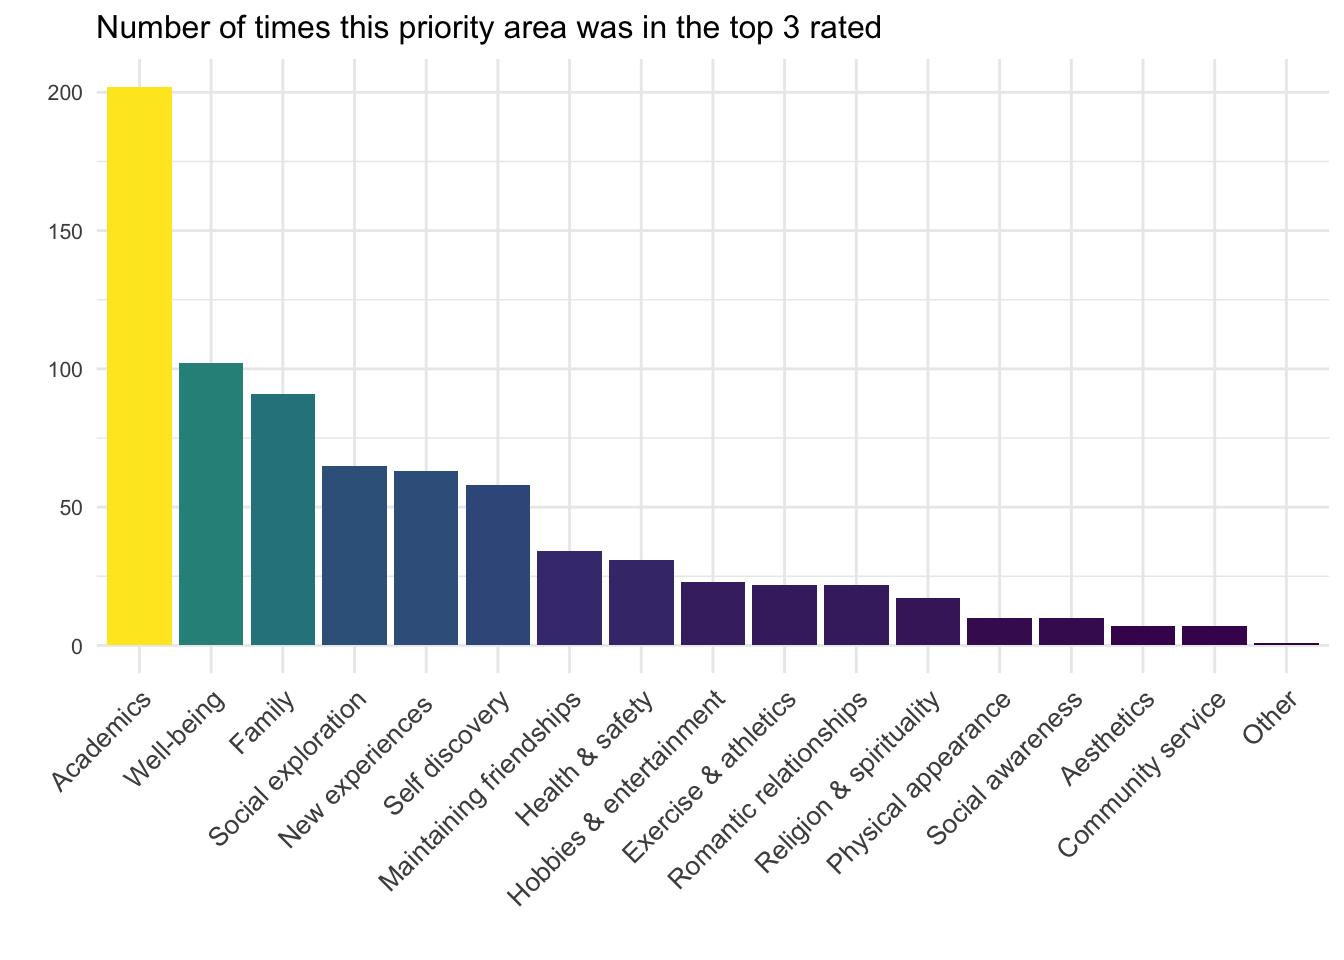
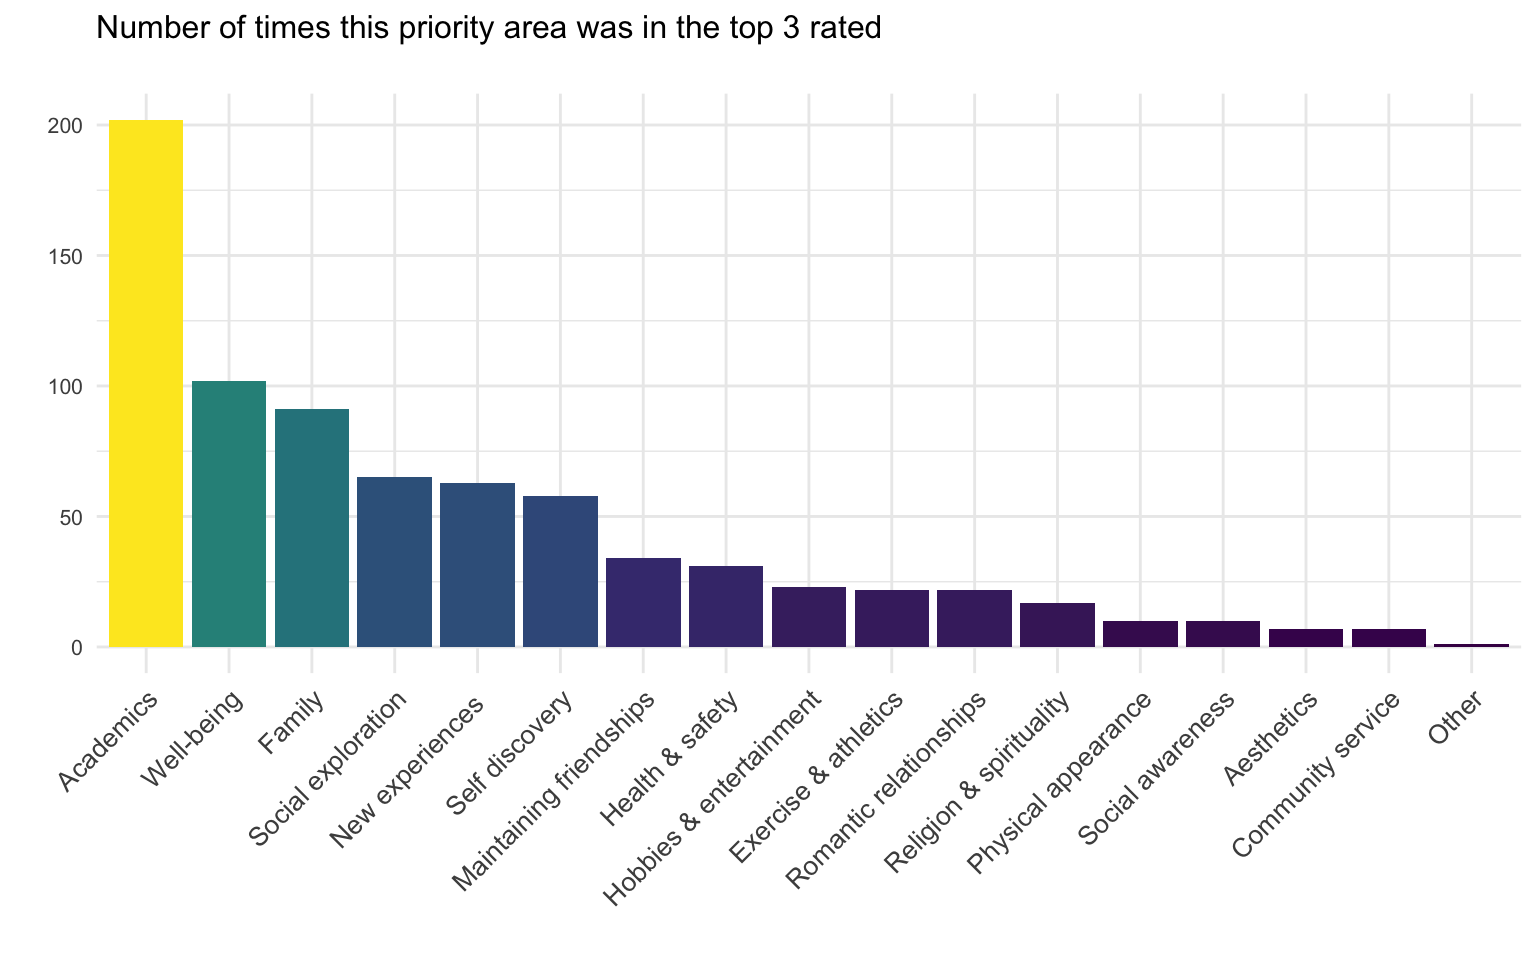
updated hopelab code

diff --git a/data-vis/hopelab/index.html b/data-vis/hopelab/index.html
@@ -17,7 +17,8 @@
       
     
   
-  <meta name="description" content="load libraries if (!require(tidyverse)) { install.packages(&#39;tidyverse&#39;) } if (!require(devtools)) { install.packages(&#39;devtools&#39;) } if (!require(scorequaltrics)) { devtools::install_github(&#39;jflournoy/qualtrics&#39;) } if (!require(ggcorrplot)) { install.packages(&#39;ggcorrplot&#39;) }  questionnaires to score  SWLS = Satisfaction with Life Scale CESD-10 = CES-Depression, 10 items PANAS = Positive and Negative Affect Schedule PSS = Perceived Stress Scale ULS-8 = UCLA Loneliness Scale, 8 items Priorities   define variables and paths  cred_file_location = path to your Qualtrics credential file.">
+  <meta name="description" content="Well-being descriptives for Hopelab.
+load libraries if (!require(tidyverse)) { install.packages(&#39;tidyverse&#39;) } if (!require(devtools)) { install.packages(&#39;devtools&#39;) } if (!require(scorequaltrics)) { devtools::install_github(&#39;jflournoy/qualtrics&#39;) } if (!require(ggcorrplot)) { install.packages(&#39;ggcorrplot&#39;) }  questionnaires to score  CESD-10 = CES-Depression, 10 items  scores &gt; 10 = considered depressed  GAD7 = Generalized Anxiety Disorder, 7 items PANAS = Positive and Negative Affect Schedule PSS = Perceived Stress Scale SWLS = Satisfaction with Life Scale ULS-8 = UCLA Loneliness Scale, 8 items  scores &gt; 8 = probable anxiety diagnosis  Priorities   define variables and paths  cred_file_location = path to your Qualtrics credential file.">
 
   
   <link rel="alternate" hreflang="en-us" href="https://dcosme.github.io/data-vis/hopelab/">
@@ -79,12 +80,13 @@
   <meta property="og:site_name" content="Danielle Cosme">
   <meta property="og:url" content="https://dcosme.github.io/data-vis/hopelab/">
   <meta property="og:title" content="Descriptives for Hopelab | Danielle Cosme">
-  <meta property="og:description" content="load libraries if (!require(tidyverse)) { install.packages(&#39;tidyverse&#39;) } if (!require(devtools)) { install.packages(&#39;devtools&#39;) } if (!require(scorequaltrics)) { devtools::install_github(&#39;jflournoy/qualtrics&#39;) } if (!require(ggcorrplot)) { install.packages(&#39;ggcorrplot&#39;) }  questionnaires to score  SWLS = Satisfaction with Life Scale CESD-10 = CES-Depression, 10 items PANAS = Positive and Negative Affect Schedule PSS = Perceived Stress Scale ULS-8 = UCLA Loneliness Scale, 8 items Priorities   define variables and paths  cred_file_location = path to your Qualtrics credential file.">
+  <meta property="og:description" content="Well-being descriptives for Hopelab.
+load libraries if (!require(tidyverse)) { install.packages(&#39;tidyverse&#39;) } if (!require(devtools)) { install.packages(&#39;devtools&#39;) } if (!require(scorequaltrics)) { devtools::install_github(&#39;jflournoy/qualtrics&#39;) } if (!require(ggcorrplot)) { install.packages(&#39;ggcorrplot&#39;) }  questionnaires to score  CESD-10 = CES-Depression, 10 items  scores &gt; 10 = considered depressed  GAD7 = Generalized Anxiety Disorder, 7 items PANAS = Positive and Negative Affect Schedule PSS = Perceived Stress Scale SWLS = Satisfaction with Life Scale ULS-8 = UCLA Loneliness Scale, 8 items  scores &gt; 8 = probable anxiety diagnosis  Priorities   define variables and paths  cred_file_location = path to your Qualtrics credential file.">
   <meta property="og:locale" content="en-us">
   
-  <meta property="article:published_time" content="2018-10-23T00:00:00&#43;00:00">
+  <meta property="article:published_time" content="2018-10-24T00:00:00&#43;00:00">
   
-  <meta property="article:modified_time" content="2018-10-23T00:00:00&#43;00:00">
+  <meta property="article:modified_time" content="2018-10-24T00:00:00&#43;00:00">
   
 
   
@@ -238,8 +240,8 @@
 
   <span class="article-date">
     
-    <time datetime="2018-10-23 00:00:00 &#43;0000 UTC" itemprop="datePublished dateModified">
-      Oct 23, 2018
+    <time datetime="2018-10-24 00:00:00 &#43;0000 UTC" itemprop="datePublished dateModified">
+      Oct 24, 2018
     </time>
   </span>
   <span itemscope itemprop="author publisher" itemtype="http://schema.org/Person">
@@ -249,7 +251,7 @@
   
   <span class="middot-divider"></span>
   <span class="article-reading-time">
-    7 min read
+    9 min read
   </span>
   
 
@@ -306,7 +308,8 @@
 
 
     <div class="article-style" itemprop="articleBody">
-      <div id="load-libraries" class="section level1">
+      <p>Well-being descriptives for Hopelab.</p>
+<div id="load-libraries" class="section level1">
 <h1>load libraries</h1>
 <pre class="r"><code>if (!require(tidyverse)) {
   install.packages(&#39;tidyverse&#39;)
@@ -327,11 +330,18 @@ if (!require(ggcorrplot)) {
 <div id="questionnaires-to-score" class="section level1">
 <h1>questionnaires to score</h1>
 <ul>
-<li>SWLS = Satisfaction with Life Scale</li>
-<li>CESD-10 = CES-Depression, 10 items</li>
+<li>CESD-10 = CES-Depression, 10 items
+<ul>
+<li>scores &gt; 10 = considered depressed</li>
+</ul></li>
+<li>GAD7 = Generalized Anxiety Disorder, 7 items</li>
 <li>PANAS = Positive and Negative Affect Schedule</li>
 <li>PSS = Perceived Stress Scale</li>
-<li>ULS-8 = UCLA Loneliness Scale, 8 items</li>
+<li>SWLS = Satisfaction with Life Scale</li>
+<li>ULS-8 = UCLA Loneliness Scale, 8 items
+<ul>
+<li>scores &gt; 8 = probable anxiety diagnosis</li>
+</ul></li>
 <li>Priorities</li>
 </ul>
 </div>
@@ -611,13 +621,14 @@ score_questionnaire_homebrew&lt;-function(dataDF, rubricsDF, SID, psych = FALSE,
 <h1>plots</h1>
 <p>Questionnaire abbreviations</p>
 <ul>
-<li>SWLS = Satisfaction with Life Scale</li>
 <li>CESD-10 = CES-Depression, 10 items
 <ul>
 <li>scores &gt; 10 = considered depressed</li>
 </ul></li>
+<li>GAD7 = Generalized Anxiety Disorder, 7 items</li>
 <li>PANAS = Positive and Negative Affect Schedule</li>
 <li>PSS = Perceived Stress Scale</li>
+<li>SWLS = Satisfaction with Life Scale</li>
 <li>ULS-8 = UCLA Loneliness Scale, 8 items
 <ul>
 <li>scores &gt; 8 = probable anxiety diagnosis</li>
@@ -655,7 +666,7 @@ score_questionnaire_homebrew&lt;-function(dataDF, rubricsDF, SID, psych = FALSE,
   cor(., use = &quot;pairwise.complete.obs&quot;) %&gt;%
  ggcorrplot(hc.order = TRUE, outline.col = &quot;white&quot;, colors = c(&quot;#431153&quot;, &quot;#2A908B&quot;, &quot;#FCE540&quot;)) +
     geom_text(aes(label = round(value, 2)), size = 3) +
-    labs(title = &quot;Correlations between well-being measures&quot;)</code></pre>
+    labs(title = &quot;Correlations between well-being measures\n&quot;)</code></pre>
 <p><img src="/data-vis/hopelab_files/figure-html/unnamed-chunk-13-1.png" width="768" /></p>
 </div>
 <div id="priorities-density-plots" class="section level2">
@@ -668,7 +679,7 @@ score_questionnaire_homebrew&lt;-function(dataDF, rubricsDF, SID, psych = FALSE,
   ggplot(aes(value, item, fill = mean)) + 
     ggridges::geom_density_ridges() + 
     scale_fill_viridis_c(name = &quot;mean\nranking&quot;, direction = -1) +
-    labs(x = &quot;ranking&quot;, y = &quot;&quot;, title = &quot;Ranking density among priority areas&quot;) + 
+    labs(x = &quot;ranking&quot;, y = &quot;&quot;, title = &quot;Ranking density among priority areas\n&quot;) + 
     theme_minimal()</code></pre>
 <p><img src="/data-vis/hopelab_files/figure-html/unnamed-chunk-14-1.png" width="768" /></p>
 </div>
@@ -686,8 +697,8 @@ score_questionnaire_homebrew&lt;-function(dataDF, rubricsDF, SID, psych = FALSE,
     theme(axis.text.x = element_text(angle = 45, vjust = 1, size = 10, hjust = 1)) +
     theme(text = element_text(size = 10),
           legend.position = &quot;none&quot;) + 
-    labs(x = &quot;&quot;, y = &quot;&quot;, title = &quot;Number of times this priority area was in the top 3 rated&quot;)</code></pre>
-<p><img src="/data-vis/hopelab_files/figure-html/unnamed-chunk-15-1.png" width="672" /></p>
+    labs(x = &quot;&quot;, y = &quot;&quot;, title = &quot;Number of times this priority area was in the top 3 rated\n&quot;)</code></pre>
+<p><img src="/data-vis/hopelab_files/figure-html/unnamed-chunk-15-1.png" width="768" /></p>
 <pre class="r"><code>priorities %&gt;%
   filter(top5 == 1) %&gt;%
   group_by(item) %&gt;%
@@ -700,8 +711,75 @@ score_questionnaire_homebrew&lt;-function(dataDF, rubricsDF, SID, psych = FALSE,
     theme(axis.text.x = element_text(angle = 45, vjust = 1, size = 10, hjust = 1)) +
     theme(text = element_text(size = 10),
           legend.position = &quot;none&quot;) + 
-    labs(x = &quot;&quot;, y = &quot;&quot;, title = &quot;Number of times this priority area was in the top 5 rated&quot;)</code></pre>
-<p><img src="/data-vis/hopelab_files/figure-html/unnamed-chunk-15-2.png" width="672" /></p>
+    labs(x = &quot;&quot;, y = &quot;&quot;, title = &quot;Number of times this priority area was in the top 5 rated\n&quot;)</code></pre>
+<p><img src="/data-vis/hopelab_files/figure-html/unnamed-chunk-15-2.png" width="768" /></p>
+</div>
+<div id="priorities-by-loneliness" class="section level2">
+<h2>priorities by loneliness</h2>
+<p>The higher the quartile, the greater the loneliness reported.</p>
+<pre class="r"><code>loneliness = scored %&gt;%
+  filter(scale_name == &quot;ULS-8&quot;) %&gt;%
+  mutate(score = as.numeric(score),
+         loneliness = ifelse(score &lt; 1.62, &quot;1st quartile&quot;,
+                      ifelse(score &gt;= 1.62 &amp; score &lt; median(score), &quot;2nd quartile&quot;,
+                      ifelse(score &gt;= median(score) &amp; score &lt; 2.5, &quot;3rd quartile&quot;, 
+                      ifelse(score &gt;= 2.5, &quot;4th quartile&quot;, NA))))) %&gt;%
+  ungroup() %&gt;%
+  select(subjectID, loneliness)
+
+priorities %&gt;%
+  left_join(loneliness, by = &quot;subjectID&quot;) %&gt;%
+  filter(!grepl(&quot;Other&quot;, item)) %&gt;%
+  group_by(item, loneliness) %&gt;%
+  mutate(value = as.numeric(value),
+         mean = mean(value, na.rm = TRUE)) %&gt;%
+  ggplot(aes(value, item, fill = mean)) + 
+    ggridges::geom_density_ridges() + 
+    scale_fill_viridis_c(name = &quot;mean\nranking&quot;, direction = -1) +
+    facet_grid(~loneliness) +
+    labs(x = &quot;ranking&quot;, y = &quot;&quot;, title = &quot;Ranking density among priority areas as a function of loneliness\n&quot;) + 
+    theme_minimal()</code></pre>
+<p><img src="/data-vis/hopelab_files/figure-html/unnamed-chunk-16-1.png" width="768" /></p>
+<pre class="r"><code>priorities %&gt;%
+  left_join(loneliness, by = &quot;subjectID&quot;) %&gt;%
+  filter(top3 == 1) %&gt;%
+  group_by(item, loneliness) %&gt;%
+  summarize(count = n()) %&gt;%
+  mutate(n = ifelse(grepl(&quot;1&quot;, loneliness), 52,
+             ifelse(grepl(&quot;2&quot;, loneliness), 61,
+             ifelse(grepl(&quot;3&quot;, loneliness), 80,
+             ifelse(grepl(&quot;4&quot;, loneliness), 69, NA)))),
+    count.scaled = count / n) %&gt;%
+  ungroup() %&gt;%
+  ggplot(aes(reorder(item, -count.scaled), count.scaled, fill = loneliness)) + 
+    geom_bar(stat = &quot;identity&quot;, position = &quot;dodge&quot;) +
+    scale_fill_viridis_d() + #scale_fill_manual( &quot;loneliness&quot;, values = c(&quot;#2A908B&quot;, &quot;#FCE540&quot;)) +
+    theme_minimal() + 
+    theme(axis.text.x = element_text(angle = 45, vjust = 1, size = 10, hjust = 1),
+          text = element_text(size = 10),
+          legend.position = c(.9,.75)) + 
+    labs(x = &quot;&quot;, y = &quot;count scaled by quartile n\n&quot;, title = &quot;Number of times this priority area was in the top 3 rated by loneliness\n&quot;)</code></pre>
+<p><img src="/data-vis/hopelab_files/figure-html/unnamed-chunk-17-1.png" width="768" /></p>
+<pre class="r"><code>priorities %&gt;%
+  left_join(loneliness, by = &quot;subjectID&quot;) %&gt;%
+  filter(top5 == 1) %&gt;%
+  group_by(item, loneliness) %&gt;%
+  summarize(count = n()) %&gt;%
+  mutate(n = ifelse(grepl(&quot;1&quot;, loneliness), 52,
+             ifelse(grepl(&quot;2&quot;, loneliness), 61,
+             ifelse(grepl(&quot;3&quot;, loneliness), 80,
+             ifelse(grepl(&quot;4&quot;, loneliness), 69, NA)))),
+    count.scaled = count / n) %&gt;%
+  ungroup() %&gt;%
+  ggplot(aes(reorder(item, -count.scaled), count.scaled, fill = loneliness)) + 
+    geom_bar(stat = &quot;identity&quot;, position = &quot;dodge&quot;) +
+    scale_fill_viridis_d() + #scale_fill_manual( &quot;loneliness&quot;, values = c(&quot;#2A908B&quot;, &quot;#FCE540&quot;)) +
+    theme_minimal() + 
+    theme(axis.text.x = element_text(angle = 45, vjust = 1, size = 10, hjust = 1),
+          text = element_text(size = 10),
+          legend.position = c(.9,.75)) + 
+    labs(x = &quot;&quot;, y = &quot;count scaled by quartile n\n&quot;, title = &quot;Number of times this priority area was in the top 5 rated by loneliness\n&quot;)</code></pre>
+<p><img src="/data-vis/hopelab_files/figure-html/unnamed-chunk-17-2.png" width="768" /></p>
 </div>
 </div>
 

diff --git a/data-vis/index.html b/data-vis/index.html
@@ -228,7 +228,8 @@
     <h2><a href="https://dcosme.github.io/data-vis/hopelab/">Descriptives for Hopelab</a></h2>
     <div class="article-style">
       
-      load libraries if (!require(tidyverse)) { install.packages(&#39;tidyverse&#39;) } if (!require(devtools)) { install.packages(&#39;devtools&#39;) } if (!require(scorequaltrics)) { devtools::install_github(&#39;jflournoy/qualtrics&#39;) } if (!require(ggcorrplot)) { install.packages(&#39;ggcorrplot&#39;) }  questionnaires to score  SWLS = Satisfaction with Life Scale CESD-10 = CES-Depression, 10 items PANAS = Positive and Negative Affect Schedule PSS = Perceived Stress Scale ULS-8 = UCLA Loneliness Scale, 8 items Priorities   define variables and paths  cred_file_location = path to your Qualtrics credential file.
+      Well-being descriptives for Hopelab.
+load libraries if (!require(tidyverse)) { install.packages(&#39;tidyverse&#39;) } if (!require(devtools)) { install.packages(&#39;devtools&#39;) } if (!require(scorequaltrics)) { devtools::install_github(&#39;jflournoy/qualtrics&#39;) } if (!require(ggcorrplot)) { install.packages(&#39;ggcorrplot&#39;) }  questionnaires to score  CESD-10 = CES-Depression, 10 items  scores &gt; 10 = considered depressed  GAD7 = Generalized Anxiety Disorder, 7 items PANAS = Positive and Negative Affect Schedule PSS = Perceived Stress Scale SWLS = Satisfaction with Life Scale ULS-8 = UCLA Loneliness Scale, 8 items  scores &gt; 8 = probable anxiety diagnosis  Priorities   define variables and paths  cred_file_location = path to your Qualtrics credential file.
       
     </div>
   </div>
